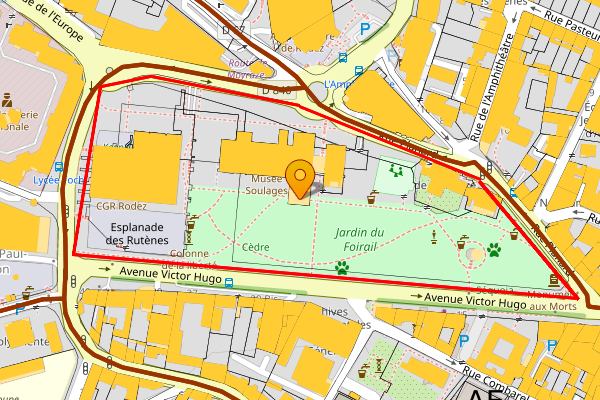
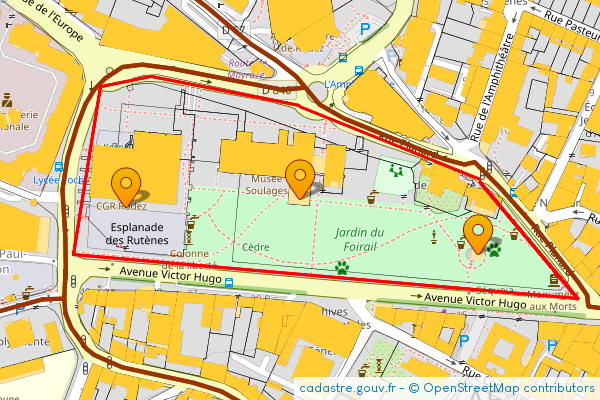
Adding attribution

Changed region(s): [[0.48, 0.93, 1.0, 1.0], [0.75, 0.54, 0.84, 0.66], [0.18, 0.42, 0.27, 0.54]]

diff --git a/src/samples/sample1.php b/src/samples/sample1.php
@@ -1,4 +1,10 @@
 <?php
+require_once '../../vendor/autoload.php';
+require_once '../FrenchCadastralMap.php';
+require_once '../LatLng.php';
+require_once '../Line.php';
+require_once '../Markers.php';
+require_once '../XY.php';
 
 use \DantSu\FrenchCadastralMapStaticAPI\FrenchCadastralMap;
 use \DantSu\FrenchCadastralMapStaticAPI\LatLng;
@@ -16,7 +22,7 @@ use \DantSu\FrenchCadastralMapStaticAPI\Markers;
         FrenchCadastralMap::LAYER_HYDRO,
         FrenchCadastralMap::LAYER_BUILDING,
         FrenchCadastralMap::LAYER_BORNE_REPERE,
-        FrenchCadastralMap::LAYER_VOIE_COMMUNICATION,
+        // FrenchCadastralMap::LAYER_VOIE_COMMUNICATION,
         // FrenchCadastralMap::LAYER_LIEUDIT
     ])
     ->setDisplayOpenStreetMap(true)
@@ -24,6 +30,8 @@ use \DantSu\FrenchCadastralMapStaticAPI\Markers;
         (new Markers(__DIR__ . '/resources/marker.png'))
             ->setAnchor(Markers::ANCHOR_CENTER, Markers::ANCHOR_BOTTOM)
             ->addMarker(new LatLng(44.351933, 2.568113))
+            ->addMarker(new LatLng(44.351510, 2.570020))
+            ->addMarker(new LatLng(44.351873, 2.566250))
     )
     ->addLine(
         (new Line('FF0000', 2))

diff --git a/src/FrenchCadastralMap.php b/src/FrenchCadastralMap.php
@@ -37,7 +37,7 @@ class FrenchCadastralMap extends OpenStreetMap
      */
     private $layers = [];
     /**
-     * @var bool is displaying Open Street Map
+     * @var bool is displaying OpenStreetMap
      */
     private $displayOpenStreetMap = false;
 
@@ -78,12 +78,17 @@ class FrenchCadastralMap extends OpenStreetMap
         return $this;
     }
 
+    protected function getAttributionText()
+    {
+        return 'cadastre.gouv.fr' . ($this->displayOpenStreetMap ? ' - ' . parent::getAttributionText() : '');
+    }
+
     /**
      * Get only the map image.
      * @see https://github.com/DantSu/php-image-editor See more about DantSu\PHPImageEditor\Image
      * @return Image An instance of DantSu\PHPImageEditor\Image
      */
-    public function getMapImage(): Image
+    protected function getMapImage(): Image
     {
         $bbox = $this->getBoundingBox();
 

diff --git a/README.md b/README.md
@@ -35,7 +35,7 @@ use \DantSu\FrenchCadastralMapStaticAPI\Markers;
         FrenchCadastralMap::LAYER_HYDRO,
         FrenchCadastralMap::LAYER_BUILDING,
         FrenchCadastralMap::LAYER_BORNE_REPERE,
-        FrenchCadastralMap::LAYER_VOIE_COMMUNICATION,
+        // FrenchCadastralMap::LAYER_VOIE_COMMUNICATION,
         // FrenchCadastralMap::LAYER_LIEUDIT
     ])
     ->setDisplayOpenStreetMap(true)
@@ -43,6 +43,8 @@ use \DantSu\FrenchCadastralMapStaticAPI\Markers;
         (new Markers(__DIR__ . '/resources/marker.png'))
             ->setAnchor(Markers::ANCHOR_CENTER, Markers::ANCHOR_BOTTOM)
             ->addMarker(new LatLng(44.351933, 2.568113))
+            ->addMarker(new LatLng(44.351510, 2.570020))
+            ->addMarker(new LatLng(44.351873, 2.566250))
     )
     ->addLine(
         (new Line('FF0000', 2))
